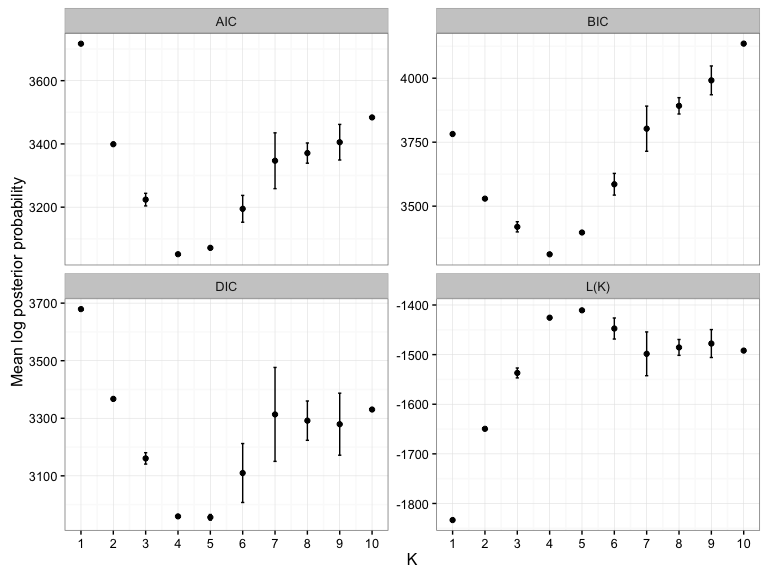
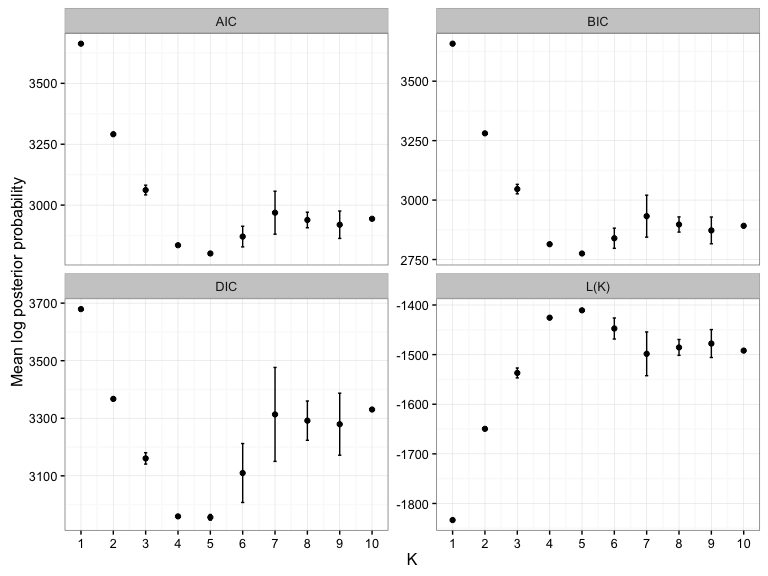
minor fixes

diff --git a/README.md b/README.md
@@ -8,9 +8,9 @@
     -   [Loading multiple 'struct' objects the 'structList'](#loading-multiple-struct-objects-the-structlist)
     -   [Diagnostics: or checking out your chains](#diagnostics-or-checking-out-your-chains)
     -   [Inference on K is hard](#inference-on-k-is-hard)
-    -   [CLUMPPING together](#clumpping-together)
--   [Putting it together - shiny starmie](#putting-it-together---shiny-starmie)
--   [Why starmie?](#why-starmie)
+    -   [CLUMPPING together - avoiding label switching](#clumpping-together---avoiding-label-switching)
+    -   [Other visualisations](#other-visualisations)
+-   [Bugs, feature requests and miscellana](#bugs-feature-requests-and-miscellana)
 -   [References](#references)
 
 <!-- README.md is generated from README.Rmd. Please edit that file -->
@@ -19,11 +19,13 @@
 Quick Start
 ===========
 
-Construct a barplot for your STRUCTURE/ADMIXTURE output using `starmie` in three lines of code!
+Construct a barplot for your STRUCTURE/ADMIXTURE output using `starmie` in a few lines of code!
 
 ``` r
 library(starmie)
-k5_data <- loadStructure("./inst/extdata/microsat_testfiles/locprior_K5.out_f")
+str_output <- system.file("extdata/microsat_testfiles/", "locprior_K5.out_f", 
+    package = "starmie")
+k5_data <- loadStructure(str_output)
 k5_data
 #> struct object containing run information for k = 5 
 #> Model run parameters:
@@ -65,7 +67,7 @@ install_github("sa-lee/starmie", build_vignettes = TRUE)
 Starmie: making population structure analyses easier
 ====================================================
 
-A very common part of modern population genetics analysis is inferring underlying population structure from genetic markers such as single nucleotide polymorphisms (SNPs) or microsatellites. The two main methods for this task are the Bayesian STRUCTURE algorithm or the frequentist ADMIXTURE. We have found that processing the output of these programs and performing meaningful inference and visualisation of the results is far more difficult than it should be. This is why we wrote starmie.
+A very common part of modern population genetics analysis is inferring underlying population structure from genetic markers such as single nucleotide polymorphisms (SNPs) or microsatellites. The two main methods for this task are the Bayesian STRUCTURE algorithm or the frequentist ADMIXTURE. We have found that processing the output of these programs and performing meaningful inference and visualization of the results is far more difficult than it should be. This is why we wrote starmie.
 
 Some key features:
 
@@ -73,7 +75,7 @@ Some key features:
 -   Plot model diagnostics to perform inference on choice of 'K'.
 -   Create the 'standard' STRUCTURE bar plot showing cluster memberships.
 -   Plot model checks such as MCMC chains on the admixture coefficient \(\alpha\) and the log-likelihood.
--   Interactively visualising output from STRUCTURE analysis
+-   Visualizing output from STRUCTURE analysis
 
 This vignette outlines how to use starmie to do basic tasks after running STRUCTURE at the command line.
 
@@ -192,7 +194,7 @@ k6_all
 #> 2
 ```
 
-We can also compare the cluster labelling by using `plotMultiK` (and see that label-switching over different MCMC runs is a problem!)
+We can also compare the cluster labeling by using `plotMultiK` (and see that label-switching over different MCMC runs is a problem!)
 
 ``` r
 plotMultiK(k6_all)
@@ -204,7 +206,7 @@ plotMultiK(k6_all)
 Diagnostics: or checking out your chains
 ----------------------------------------
 
-A very simple approach to determining whether you need to rerun a STRUCTURE a model is to plot the estimated log-likelihood over each iteration over the post burn-in MCMC phase. If the chains have converged the log-likelihood should stabilise towards the final iterations and the variance within a run should be relatively low. The `plotMCMC` can plot the log-likelihood or admixture coefficient against the iteration over different runs and different \(K\) values. Note this requires the logging file to be read by `loadStructure`.
+A very simple approach to determining whether you need to rerun a STRUCTURE a model is to plot the estimated log-likelihood over each iteration over the post burn-in MCMC phase. If the chains have converged the log-likelihood should stabilize towards the final iterations and the variance within a run should be relatively low. The `plotMCMC` can plot the log-likelihood or admixture coefficient against the iteration over different runs and different \(K\) values. Note this requires the logging file to be read by `loadStructure`.
 
 Here we show an example when \(K\) = 10 and the number of runs is also 10.
 
@@ -289,48 +291,48 @@ bestK(multi_K)
 
     #>       K variable     value          sd
     #> 1.1   1     L(K) -1833.400   0.1414214
-    #> 1.2   1      AIC  3716.800   0.2828427
-    #> 1.3   1      BIC  3781.929   0.2828427
+    #> 1.2   1      AIC  3662.800   0.2828427
+    #> 1.3   1      BIC  3657.590   0.2828427
     #> 1.4   1      DIC  3679.300   0.4242641
     #> 2.1   2     L(K) -1649.550   1.7677670
-    #> 2.2   2      AIC  3399.100   3.5355339
-    #> 2.3   2      BIC  3529.359   3.5355339
+    #> 2.2   2      AIC  3291.100   3.5355339
+    #> 2.3   2      BIC  3280.679   3.5355339
     #> 2.4   2      DIC  3367.300   5.7982756
     #> 3.1   3     L(K) -1536.950   9.9702056
-    #> 3.2   3      AIC  3223.900  19.9404112
-    #> 3.3   3      BIC  3419.288  19.9404112
+    #> 3.2   3      AIC  3061.900  19.9404112
+    #> 3.3   3      BIC  3046.269  19.9404112
     #> 3.4   3      DIC  3160.600  19.7989899
     #> 4.1   4     L(K) -1425.650   0.9192388
-    #> 4.2   4      AIC  3051.300   1.8384776
-    #> 4.3   4      BIC  3311.817   1.8384776
+    #> 4.2   4      AIC  2835.300   1.8384776
+    #> 4.3   4      BIC  2814.459   1.8384776
     #> 4.4   4      DIC  2959.200   3.9597980
     #> 5.1   5     L(K) -1410.700   2.6870058
-    #> 5.2   5      AIC  3071.400   5.3740115
-    #> 5.3   5      BIC  3397.046   5.3740115
+    #> 5.2   5      AIC  2801.400   5.3740115
+    #> 5.3   5      BIC  2775.348   5.3740115
     #> 5.4   5      DIC  2955.900   9.7580736
     #> 6.1   6     L(K) -1447.400  21.2132034
-    #> 6.2   6      AIC  3194.800  42.4264069
-    #> 6.3   6      BIC  3585.576  42.4264069
+    #> 6.2   6      AIC  2870.800  42.4264069
+    #> 6.3   6      BIC  2839.538  42.4264069
     #> 6.4   6      DIC  3109.800 102.3890619
     #> 7.1   7     L(K) -1498.400  44.1234631
-    #> 7.2   7      AIC  3346.800  88.2469263
-    #> 7.3   7      BIC  3802.705  88.2469263
+    #> 7.2   7      AIC  2968.800  88.2469263
+    #> 7.3   7      BIC  2932.328  88.2469263
     #> 7.4   7      DIC  3313.400 163.2002451
     #> 8.1   8     L(K) -1485.500  15.9806133
-    #> 8.2   8      AIC  3371.000  31.9612265
-    #> 8.3   8      BIC  3892.034  31.9612265
+    #> 8.2   8      AIC  2939.000  31.9612265
+    #> 8.3   8      BIC  2897.317  31.9612265
     #> 8.4   8      DIC  3291.700  68.3065151
     #> 9.1   9     L(K) -1477.700  28.1428499
-    #> 9.2   9      AIC  3405.400  56.2856998
-    #> 9.3   9      BIC  3991.563  56.2856998
+    #> 9.2   9      AIC  2919.400  56.2856998
+    #> 9.3   9      BIC  2872.507  56.2856998
     #> 9.4   9      DIC  3279.400 107.7630735
     #> 10.1 10     L(K) -1491.900   0.0000000
-    #> 10.2 10      AIC  3483.800   0.0000000
-    #> 10.3 10      BIC  4135.093   0.0000000
+    #> 10.2 10      AIC  2943.800   0.0000000
+    #> 10.3 10      BIC  2891.697   0.0000000
     #> 10.4 10      DIC  3330.400   5.3740115
 
-CLUMPPING together
-------------------
+CLUMPPING together - avoiding label switching
+---------------------------------------------
 
 We have written R implementations of the popular CLUMMP and CLUMPAK algorithms for combining Q-matrices over different runs of STRUCTURE. Usually, this step is performed after choosing a value for \(K\), when the analyst would like to refine their estimates of cluster memberships. To perform CLUMPPING create a `structList` consisting of the same value of \(K\) for multiple runs. In each case the Q-matrices and a matrix of column permutations for each run are returned.
 
@@ -348,17 +350,25 @@ plotMultiK(clumppy$Q_list)
 
 <img src="inst/vignette-supp/clump-example-1.png" style="display: block; margin: auto;" />
 
-We can see that the clumpping has worked compared to the first plot.
+Several other algorithms to correct label switching are available, including fast implementations for large values of K.
 
-Putting it together - shiny starmie
-===================================
+Other visualisations
+--------------------
 
-Coming soon... a fully interactive analysis of our population structure methods.
+As the STRUCTURE model outputs other information, we have implemented some multidimensional scaling plots to visualize some of the neglected features of the STRUCTURE model.
 
-Why starmie?
-============
+For example, we can plot the net nucleotide distance between clusters:
 
-There's a reason. It's not very good though.
+``` r
+plotMDS(k6_msat)
+```
+
+<img src="inst/vignette-supp/plotMDS-1.png" style="display: block; margin: auto;" />
+
+Bugs, feature requests and miscellana
+=====================================
+
+Please submit any bugs or features requests as an issue to <https://github.com/sa-lee/starmie/issues> Pull requests are completely welcome.
 
 References
 ==========
